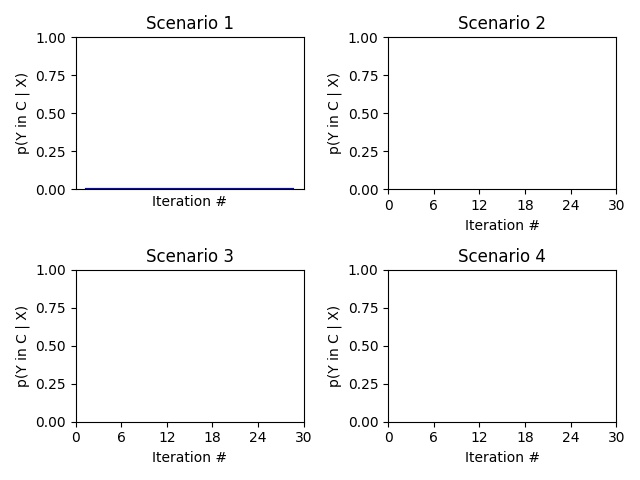
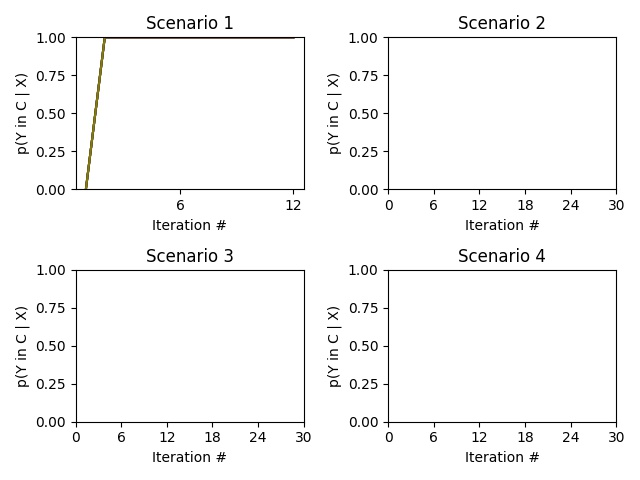
Refine max likelihood analysis function

Changed region(s): [[0.125, 0.1562, 0.4688, 0.5], [0.1562, 0.0625, 0.1875, 0.1562]]

diff --git a/ui/src/screens/Clean.js b/ui/src/screens/Clean.js
@@ -28,7 +28,7 @@ class Clean extends Component {
     formData.append('feedback', JSON.stringify(feedback));
     formData.append('refresh', (this.state.refresh === true ? 1 : 0));
     formData.append('is_new_feedback', (this.state.noNewFeedback === false ? 1 : 0));
-    axios.post('http://167.71.155.153:5000/duo/api/clean', formData)
+    axios.post('http://localhost:5000/duo/api/clean', formData)
         .then(async(response) => {
           console.log(response.data);
           var res = JSON.parse(response.data);
@@ -110,7 +110,7 @@ class Clean extends Component {
     const formData = new FormData();
     formData.append('project_id', project_id);
     console.log(formData.get('project_id'));
-    axios.post('http://167.71.155.153:5000/duo/api/sample', formData)
+    axios.post('http://localhost:5000/duo/api/sample', formData)
         .then(async(response) => {
           var res = JSON.parse(response.data);
           var { sample, feedback, msg, true_pos, false_pos } = pick(res, ['sample', 'feedback', 'msg', 'true_pos', 'false_pos'])

diff --git a/ui/src/screens/Import.js b/ui/src/screens/Import.js
@@ -27,7 +27,7 @@ class Import extends Component {
       this.setState({ isProcessing: true });
       const formData = new FormData();
       formData.append('scenario_id', this.state.scenarioID);
-      axios.post('http://167.71.155.153:5000/duo/api/import', formData)
+      axios.post('http://localhost:5000/duo/api/import', formData)
         .then(response => {
           this.setState({ isProcessing: false });
           var { header, project_id, msg, scenario_desc } = JSON.parse(response.data);
@@ -51,7 +51,7 @@ class Import extends Component {
       this.setState({ isProcessing: true });
       const formData = new FormData();
       formData.append('project_id', this.state.projectID);
-      axios.post('http://167.71.155.153:5000/duo/api/resume', formData)
+      axios.post('http://localhost:5000/duo/api/resume', formData)
         .then(response => {
           this.setState({ isProcessing: false });
           var { header, msg, scenario_id, scenario_desc, sample, true_pos, false_pos, feedback } = JSON.parse(response.data);

diff --git a/server/analyze.py b/server/analyze.py
@@ -181,11 +181,13 @@ def bayes(sampling_method):
                         p_X_given_h = elem.value
                         p_h = bayes_modeling_metadata['p_h'][heur][h]   # p(h)
                         p_h_given_X = p_X_given_h * p_h     # p(h | X)
+                        #print(p_h_given_X)
                         p_h_given_X_list.append(PHGivenX(h=h, value=p_h_given_X))
                     
                     # normalized p(h | X) such that sum of all p(h | X) = 1
                     p_h_given_X_list_sum = sum([x.value for x in p_h_given_X_list])
                     p_h_given_X_list = [PHGivenX(h=x.h, value=((x.value/p_h_given_X_list_sum) if x.value > 0 else 0)) for x in p_h_given_X_list]
+                    # print([x.value for x in p_h_given_X_list])
 
                     # p(Y in C | X)
                     p_Y_in_C_given_X = 1
@@ -196,9 +198,10 @@ def bayes(sampling_method):
                             p_h_given_X = phgx.value    # p(h | X)
                             i_y_supp_h = bayes_modeling_metadata['y_supp_h'][h][y]  # I(y in supp(h))
                             p_y_in_C_given_X += (i_y_supp_h * p_h_given_X)  # p(y in C | X) = I(y in supp(h)) * p(h | X)
+                            print('p(y in C | X) =', p_y_in_C_given_X)
                             
                         p_Y_in_C_given_X *= p_y_in_C_given_X    # incorporating each y in Y into p(Y in C | X)
-                        print('p(Y in C | X) =', p_Y_in_C_given_X)
+                    print('p(Y in C | X) =', p_Y_in_C_given_X)
                     
                     bayes_modeling_metadata['p_Y_in_C_given_X'][heur].append(StudyMetric(iter_num=it, value=p_Y_in_C_given_X, elapsed_time=elapsed_time))
 
@@ -297,18 +300,34 @@ def max_likelihood(sampling_method):
                         if max_p_X_given_h <= curr_p_X_given_h:     # if an FD is found with a higher p(X | h)
                             max_p_X_given_h = curr_p_X_given_h      # update p(X | h_ML)
                             h_ML = cfd  # update h_ML
+
+                    p_h_given_X_list = list()
+                    for h in discovered_cfds:
+                        elem = [x for x in min_modeling_metadata['p_X_given_h'][h] if x.iter_num == it].pop()     # p(X | h) for this iteration
+                        p_X_given_h = elem.value
+                        p_h = min_modeling_metadata['p_h'][heur][h]   # p(h)
+                        p_h_given_X = p_X_given_h * p_h     # p(h | X)
+                        #print(p_h_given_X)
+                        p_h_given_X_list.append(PHGivenX(h=h, value=p_h_given_X))
+
+                    p_h_given_X_list_sum = sum([x.value for x in p_h_given_X_list])
+                    p_h_given_X_list = [PHGivenX(h=x.h, value=((x.value/p_h_given_X_list_sum) if x.value > 0 else 0)) for x in p_h_given_X_list]
                 
                     # p(h_ML | X)
-                    p_h_ML = min_modeling_metadata['p_h'][heur][h_ML]   # p(h_ML)
-                    p_h_ML_given_X = max_p_X_given_h * p_h_ML   # p(h_ML | X) = p(X | h_ML) * p(h_ML)
+                    # p_h_ML = min_modeling_metadata['p_h'][heur][h_ML]   # p(h_ML)
+                    p_h_ML_given_X = [x.value for x in p_h_given_X_list if x.h == h_ML].pop()
+                    # p_h_ML_given_X = max_p_X_given_h * p_h_ML   # p(h_ML | X) = p(X | h_ML) * p(h_ML)
+                    # print(p_h_ML_given_X)
+                    # print(p_h_ML_given_X)
 
                     # p(Y in C | X)
                     p_Y_in_C_given_X = 1
                     for y in min_modeling_metadata['Y'][it-1].value:
                         i_y_supp_h_ML = min_modeling_metadata['y_supp_h'][h_ML][y]  # I(y in supp(h_ML))
                         p_y_in_C_given_X = i_y_supp_h_ML * p_h_ML_given_X   # p(y in C | X) = I(y in supp(h_ML)) * p(h_ML | X)
+                        print(p_y_in_C_given_X)
                         p_Y_in_C_given_X *= p_y_in_C_given_X    # incorporating each y in Y into p(Y in C | X)
-                        print('p(Y in C | X) =', p_Y_in_C_given_X)
+                    print('p(Y in C | X) =', p_Y_in_C_given_X)
                     
                     min_modeling_metadata['p_Y_in_C_given_X'][heur].append(StudyMetric(iter_num=it, value=p_Y_in_C_given_X, elapsed_time=elapsed_time))
 
